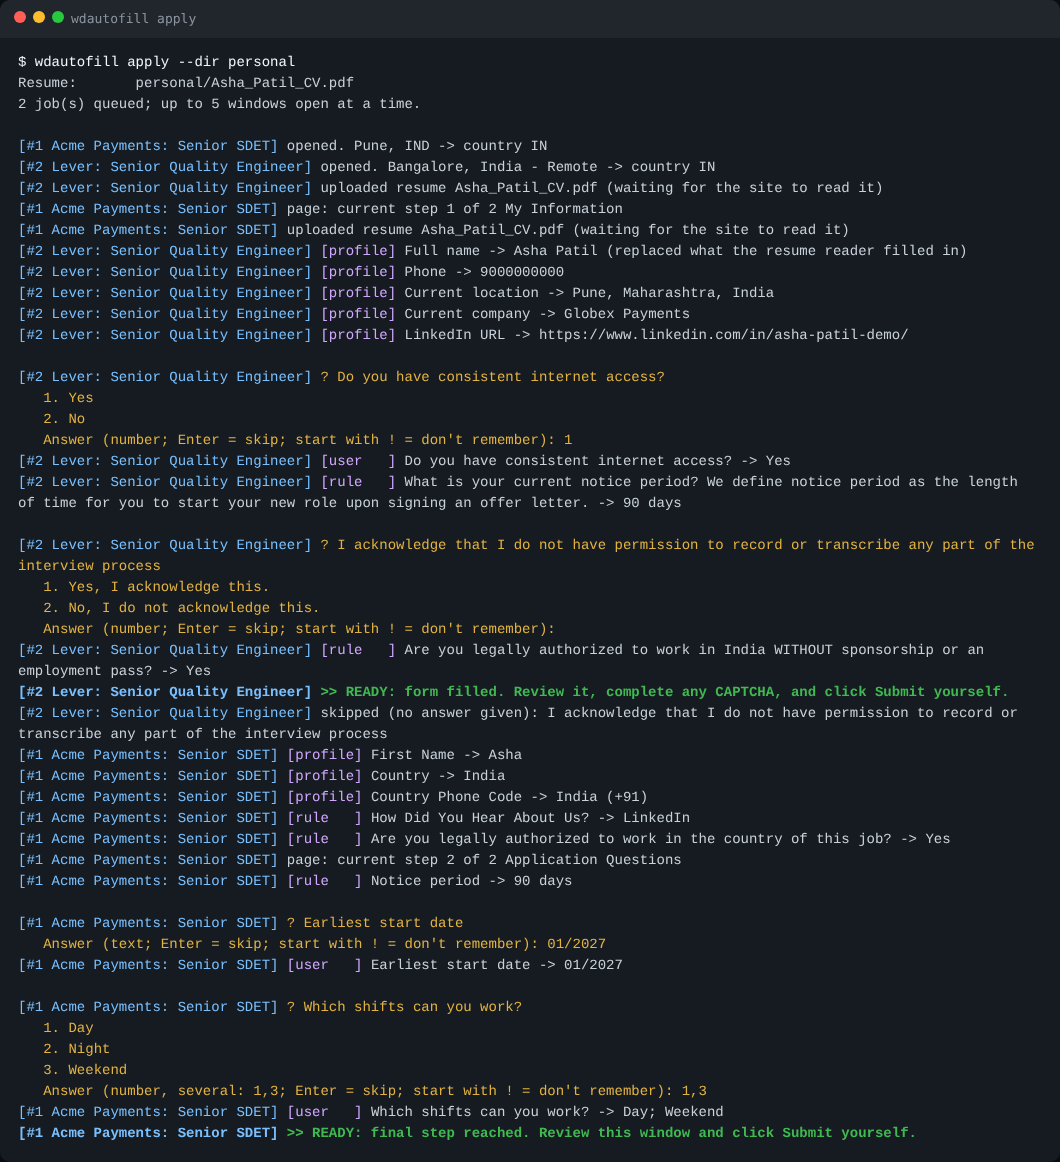
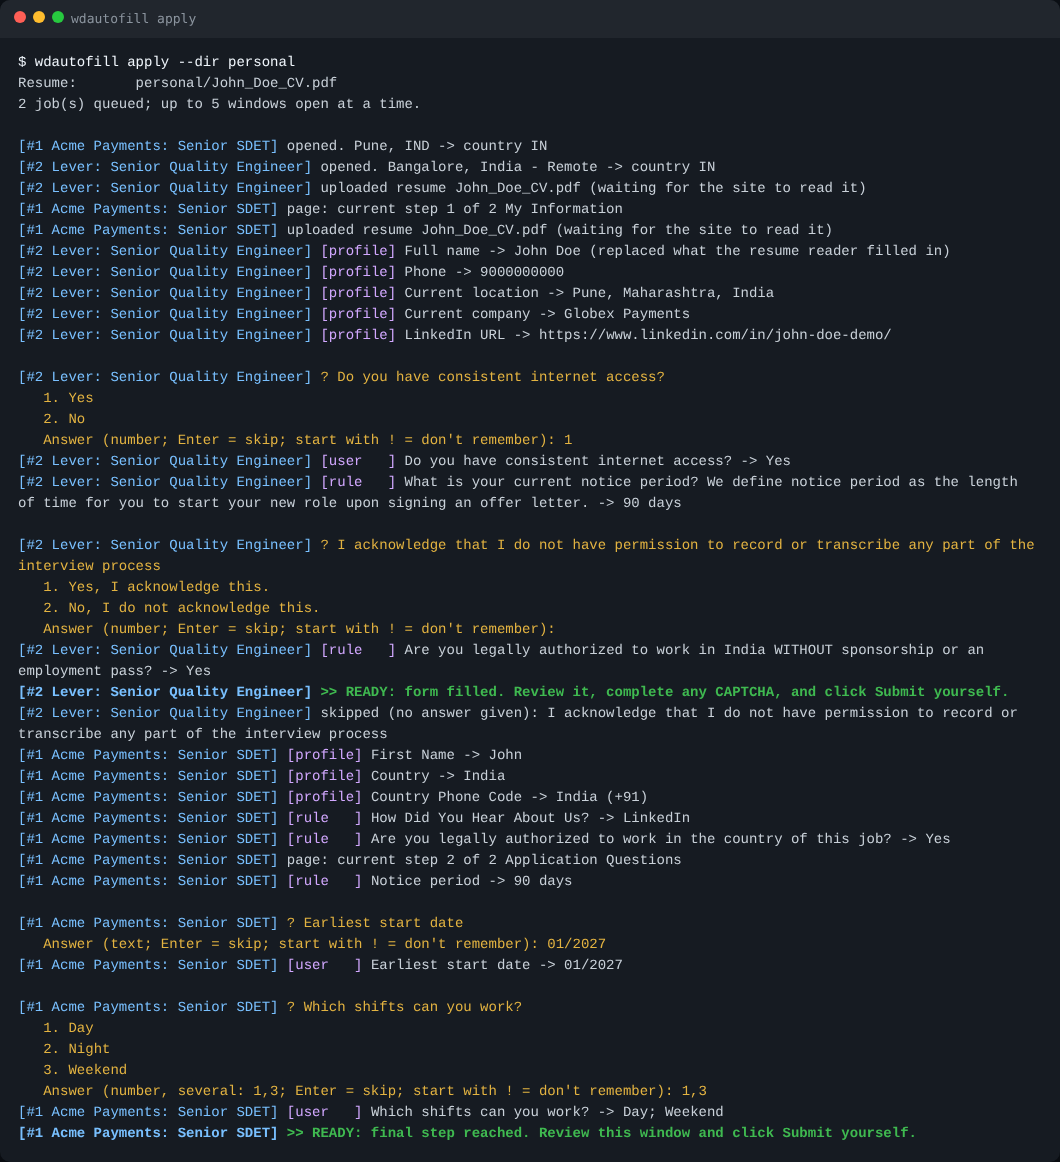
Use John Doe as the demo person in screenshots

Changed region(s): [[0.4358, 0.1549, 0.8094, 0.2169], [0.2491, 0.062, 0.3425, 0.0929], [0.7783, 0.2788, 0.8406, 0.3098]]

diff --git a/tests/test_forms.py b/tests/test_forms.py
@@ -62,8 +62,8 @@ LEVER_HTML = """
 window.submitted = false;
 function parsed() {   // Lever reads the resume and pre-fills (in capitals, like a CV header)
   setTimeout(() => {
-    document.querySelector('[name=name]').value = 'ASHA PATIL';
-    document.querySelector('[name=email]').value = 'asha.patil@example.com';
+    document.querySelector('[name=name]').value = 'JOHN DOE';
+    document.querySelector('[name=email]').value = 'john.doe@example.com';
   }, 500);
 }
 function suggest(input) {
@@ -79,9 +79,9 @@ function suggest(input) {
 """
 
 PROFILE = {
-    "personal": {"first_name": "Asha", "last_name": "Patil", "email": "asha.patil@example.com",
+    "personal": {"first_name": "John", "last_name": "Doe", "email": "john.doe@example.com",
                  "phone": "9000000000", "city": "Pune", "state": "Maharashtra", "country": "India"},
-    "links": {"linkedin": "https://www.linkedin.com/in/asha-patil-demo/"},
+    "links": {"linkedin": "https://www.linkedin.com/in/john-doe-demo/"},
     "experience": [{"company": "Globex Payments"}],
     "rules": [
         {"question": "notice period", "answer": ["90 days", "3 months"]},
@@ -97,7 +97,7 @@ def test_lever_form(tmp_path):
 
     page_file = tmp_path / "lever.html"
     page_file.write_text(LEVER_HTML, encoding="utf-8")
-    resume = tmp_path / "Asha_Patil_CV.pdf"
+    resume = tmp_path / "John_Doe_CV.pdf"
     resume.write_bytes(b"%PDF-1.4")
     asked = []
 
@@ -138,12 +138,12 @@ def test_lever_form(tmp_path):
 
     o = asyncio.run(main())
     assert o["status"] == "ready_for_review" and o["submitted"] is False   # never submits
-    assert o["resume"] == "Asha_Patil_CV.pdf"
-    assert o["name"] == "Asha Patil"                # "ASHA PATIL" from the resume reader replaced
-    assert (o["email"], o["phone"]) == ("asha.patil@example.com", "9000000000")
+    assert o["resume"] == "John_Doe_CV.pdf"
+    assert o["name"] == "John Doe"                # "JOHN DOE" from the resume reader replaced
+    assert (o["email"], o["phone"]) == ("john.doe@example.com", "9000000000")
     assert o["selected"] == "Pune, Maharashtra, India"   # picked from the location suggestions
     assert o["org"] == "Globex Payments"       # current company = newest job in profile
-    assert o["linkedin"].startswith("https://www.linkedin.com/in/asha-patil-demo")
+    assert o["linkedin"].startswith("https://www.linkedin.com/in/john-doe-demo")
     assert o["twitter"] == ""                            # optional + unknown: left empty, not asked
     assert o["internet"] and o["notice"] and o["authorized"]
     assert o["ack"] == ""                                # attestation: yours (skipped when asked)
@@ -184,7 +184,7 @@ def test_generic_form(tmp_path):
 
     page_file = tmp_path / "gh.html"
     page_file.write_text(GENERIC_HTML, encoding="utf-8")
-    profile = {"personal": {"first_name": "Asha", "last_name": "Patil"},
+    profile = {"personal": {"first_name": "John", "last_name": "Doe"},
                "links": {"website": "https://example.dev"},
                "rules": [{"question": r"\bgender\b", "answer": ["Male"]},
                          {"question": "sponsor", "answer": "No", "countries": ["IN"]}]}
@@ -213,6 +213,6 @@ def test_generic_form(tmp_path):
     status, company, country, first, last, gender, no_spons, honeypot, submitted = asyncio.run(main())
     assert status == "ready_for_review" and not submitted
     assert (company, country) == ("Acme", "IN")  # JSON-LD "Acme Corp", legal suffix dropped
-    assert (first, last, gender, no_spons) == ("Asha", "Patil", "Male", True)
+    assert (first, last, gender, no_spons) == ("John", "Doe", "Male", True)
     assert honeypot == ""                                  # bot trap left alone
     assert asked == []                                     # optional essay question not forced on you

diff --git a/tests/test_driver_mock.py b/tests/test_driver_mock.py
@@ -282,7 +282,7 @@ def test_real_workday_signin_shape(tmp_path):
 EXPERIENCE_HTML = """
 <html><body>
 <div id="p1">
-  <div data-automation-id="formField-legalName--firstName"><label>Given Name(s)*</label><input type="text" value="ASHA"></div>
+  <div data-automation-id="formField-legalName--firstName"><label>Given Name(s)*</label><input type="text" value="JOHN"></div>
   <div data-automation-id="formField-source"><label>How Did You Hear About Us?*</label>
     <div data-automation-id="multiselectInputContainer">
       <input data-automation-id="searchBox" type="text" onkeydown="if(event.key==='Enter') search(this)"></div></div>
@@ -349,7 +349,7 @@ def test_my_experience_rows_rules_and_name_case(tmp_path):
     page_file = tmp_path / "exp.html"
     page_file.write_text(EXPERIENCE_HTML, encoding="utf-8")
     profile = {
-        "personal": {"first_name": "Asha"},
+        "personal": {"first_name": "John"},
         "rules": [
             {"question": "how did you hear", "answer": ["Company Website", "LinkedIn"]},
             {"question": r"(ever|previously|formerly)\b.*\b(worked for|work for|employed (by|with|at)|been employed|employee of|worked at|contingent worker|contractor for)", "answer": "No"},
@@ -397,7 +397,7 @@ def test_my_experience_rows_rules_and_name_case(tmp_path):
             return out
 
     o = asyncio.run(main())
-    assert o["name"] == "Asha"                       # profile beats the resume reader's "ASHA"
+    assert o["name"] == "John"                       # profile beats the resume reader's "JOHN"
     assert o["source"] == ["Company Website"]           # rule, first answer that exists
     assert o["prev_no"]                                  # "ever worked for <company>" -> No
     assert o["titles"] == ["Consultant - Testing", "Associate Technical Specialist"]  # row added
@@ -407,7 +407,7 @@ def test_my_experience_rows_rules_and_name_case(tmp_path):
     assert o["ssc_gone"]                                 # extra education row removed
     assert o["next"] == "Save and Continue"              # found by text, no automation id
     assert asked == []                                   # nothing needed asking
-    assert "formField-jobTitle" in o["dump"] and "ASHA" not in o["dump"]  # structure only, no values
+    assert "formField-jobTitle" in o["dump"] and "JOHN" not in o["dump"]  # structure only, no values
 
 
 LOADING_HTML = """
@@ -440,7 +440,7 @@ def test_waits_for_workday_loading_screen(tmp_path):
 
     page_file = tmp_path / "loading.html"
     page_file.write_text(LOADING_HTML, encoding="utf-8")
-    resolver = Resolver({"personal": {"first_name": "Asha", "city": "Pune"}}, AnswerBank(tmp_path / "a.yaml"),
+    resolver = Resolver({"personal": {"first_name": "John", "city": "Pune"}}, AnswerBank(tmp_path / "a.yaml"),
                         prompter=TerminalPrompter())
 
     async def main():
@@ -459,5 +459,5 @@ def test_waits_for_workday_loading_screen(tmp_path):
 
     status, first, city, submitted = asyncio.run(main())
     assert status == "ready_for_review"
-    assert (first, city) == ("Asha", "Pune")
+    assert (first, city) == ("John", "Pune")
     assert not submitted

diff --git a/docs/make_screenshots.py b/docs/make_screenshots.py
@@ -36,10 +36,10 @@ from wdautofill.workday import STATUS_PAGE, WorkdayFiller  # noqa: E402
 OUT = ROOT / "docs" / "images"
 
 DEMO = {
-    "personal": {"first_name": "Asha", "last_name": "Patil", "email": "asha.patil@example.com",
+    "personal": {"first_name": "John", "last_name": "Doe", "email": "john.doe@example.com",
                  "phone": "9000000000", "phone_country_code": "India (+91)", "city": "Pune",
                  "state": "Maharashtra", "country": "India"},
-    "links": {"linkedin": "https://www.linkedin.com/in/asha-patil-demo/"},
+    "links": {"linkedin": "https://www.linkedin.com/in/john-doe-demo/"},
     "experience": [{"company": "Globex Payments"}],
     "rules": [
         {"question": "how did you hear", "answer": ["LinkedIn", "Company Website"]},
@@ -116,7 +116,7 @@ def typing_user():
 async def apply_run(browser, tmp: Path) -> tuple[str, object]:
     (tmp / "wd.html").write_text(wd_mock.HTML, encoding="utf-8")
     (tmp / "lever.html").write_text(form_mock.LEVER_HTML, encoding="utf-8")
-    resume = tmp / "Asha_Patil_CV.pdf"
+    resume = tmp / "John_Doe_CV.pdf"
     resume.write_bytes(b"%PDF-1.4 demo")
     resolver = Resolver(DEMO, AnswerBank(tmp / "answers.yaml"))
     resolver.bank.add("Are you legally authorized to work in the country of this job?", "Yes", "IN", True)
@@ -127,7 +127,7 @@ async def apply_run(browser, tmp: Path) -> tuple[str, object]:
     buf = io.StringIO()
     with contextlib.redirect_stdout(buf), typing_user():
         print("$ wdautofill apply --dir personal")
-        print("Resume:       personal/Asha_Patil_CV.pdf")
+        print("Resume:       personal/John_Doe_CV.pdf")
         print("2 job(s) queued; up to 5 windows open at a time.\n")
         f1 = WorkdayFiller(p1, resolver, j1, resume_path=resume, log_path=tmp / "log.jsonl")
         f2 = FormFiller(p2, resolver, j2, resume_path=resume, log_path=tmp / "log.jsonl")

diff --git a/src/wdautofill/workday.py b/src/wdautofill/workday.py
@@ -517,7 +517,7 @@ class WorkdayFiller:
             await self._fill_row_field(c, kind, label, row)
             return
         if await self._has_value(c, kind) and not self.overwrite:
-            # Your profile wins over what the resume reader typed (e.g. "ASHA" -> "Asha").
+            # Your profile wins over what the resume reader typed (e.g. "JOHN" -> "John").
             mine = profile_map.lookup(label, self.resolver.profile) if kind == "text" else None
             if not mine or (await c.locator(ANY_INPUT).first.input_value()).strip() == mine:
                 return

diff --git a/README.md b/README.md
@@ -97,7 +97,7 @@ For every field, in this order:
 
 1. **Profile** - name, email, phone, address, links, current company, work history,
    education. Your profile always wins, even over what a site's resume reader typed
-   (`ASHA` -> `Asha`).
+   (`JOHN` -> `John`).
 2. **Your rules** - your fixed answer for every question whose wording matches, at every
    company: *How did you hear about us -> LinkedIn*, *Have you ever worked for
    &lt;company&gt; -> No*, *Notice period -> 90 days*, *Sponsorship -> No in India, Yes
